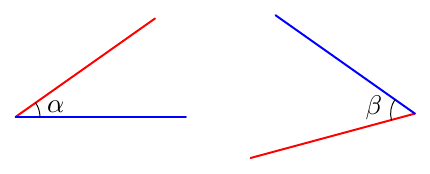
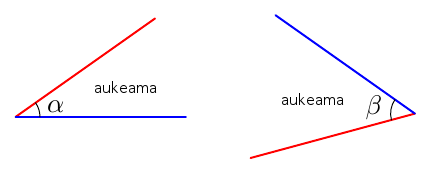
Muoks

Changed region(s): [[0.6349, 0.546, 0.8163, 0.6034], [0.2116, 0.4885, 0.3628, 0.546]]

diff --git a/kurssit/mab3/luku1/index.html b/kurssit/mab3/luku1/index.html
@@ -96,7 +96,7 @@ topnav: mab3
                         <p>
                             Kansainvälisissä aikuisten jalkapallo-otteluissa kentän leveyden on oltava vähintään 64 m ja enintään 75 m. Kentän pituuden on oltava vähintään 100 m ja enintään 110 m.
                         <ol class="a">
-                            <li> Laske suurimman ja pienimmän mahdollisen jalkapallokentän pinta-alojen erotus. </li>
+                            <li> Laske suurimman ja pienimmän jalkapallokentän pinta-alojen erotus. </li>
                             <li> Kuinka monta prosenttia suurin mahdollinen kenttä on isompi kuin pienin mahdollinen kenttä? </li>
                         </ol>
                         </p>
@@ -119,7 +119,7 @@ topnav: mab3
 
             <div class="teoria">
                 <p>
-                    Suorakulmion pinta-alan avulla saadaan pääteltyä, miten kolmion pinta-ala lasketaan.
+                    Suorakulmion pinta-alan avulla saadaan pääteltyä, miten kolmion pinta-ala lasketaan. Seuraavissa tehtävissä tutkitaan kahta erilaista tapausta.
                 </p>
             </div>
 
@@ -427,7 +427,7 @@ topnav: mab3
 
             <div class="teoria">
                 <p>
-                    Kulmalla on aina oikea ja vasen kylki. Nämä voidaan tunnistaa seuraavasti: Ajatellaan, että seisotaan kulman kärkipisteessä ja katsotaan kulman aukemaa kohti (alla olevassa kuvassa kulman nimi $\alpha$ tai $\beta$ on kirjoitettu kulman aukeamaan). Tällöin kulman $\textcolor{blue}{\textbf{oikea}}$ kylki on oikealla puolella ja $\textcolor{red}{\textbf{vasen}}$ kylki on vasemmalla puolella.
+                    Kulmalla on aina oikea ja vasen kylki. Nämä voidaan tunnistaa seuraavasti: Ajatellaan, että seisotaan kulman kärkipisteessä ja katsotaan kulman aukeamaa kohti. Tällöin kulman $\textcolor{blue}{\textbf{oikea}}$ kylki on oikealla puolella ja $\textcolor{red}{\textbf{vasen}}$ kylki on vasemmalla puolella:
                 </p>
                 <img src="/kurssit/mab3/kuvat/MAB3kuva004.png" style="max-width: 100%; width: auto; height: auto;"/>
                 <p>
